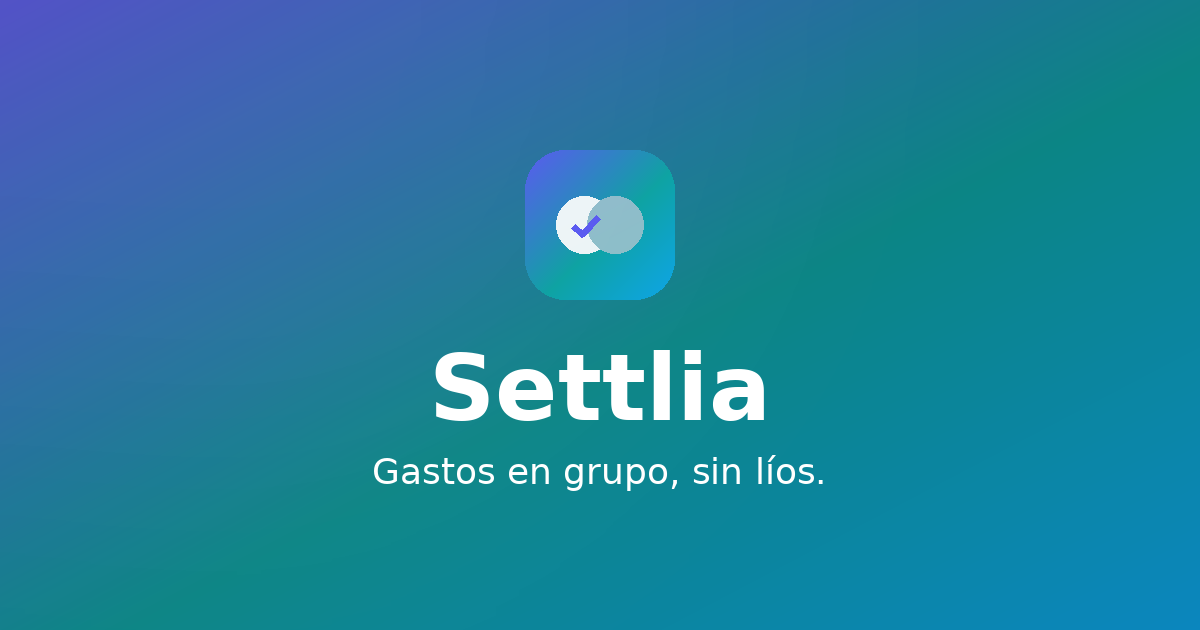
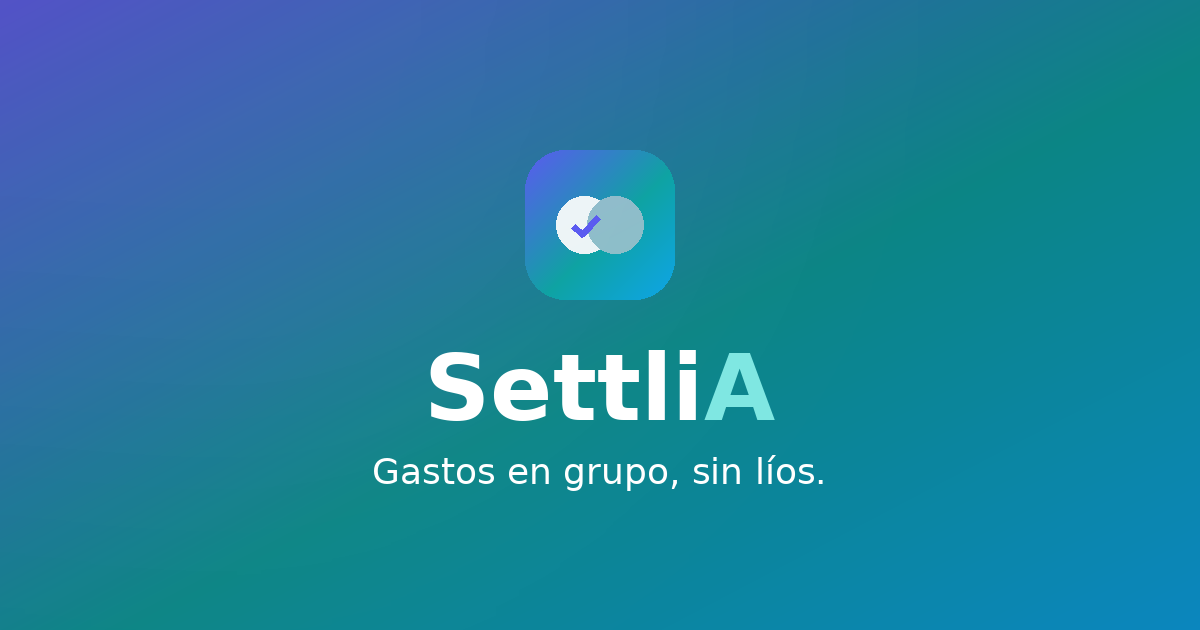
Marca como SettliA (A final destacada por la IA)
- Wordmark nav/hero/mockup: 'Settli' + 'A' acentuada (teal)
- 'SettliA' en título, meta OG/Twitter, footer y copy
- og.png regenerado con la A en teal

Claude-Session: https://claude.ai/code/session_01YHhLKro4hYv5YNZfBVj38x

Changed region(s): [[0.3392, 0.5429, 0.6475, 0.6937]]

diff --git a/terms.html b/terms.html
@@ -3,8 +3,8 @@
   <head>
     <meta charset="UTF-8" />
     <meta name="viewport" content="width=device-width, initial-scale=1" />
-    <title>Settlia — Terms of Service</title>
-    <meta name="description" content="The terms for using Settlia." />
+    <title>SettliA — Terms of Service</title>
+    <meta name="description" content="The terms for using SettliA." />
     <meta name="robots" content="all" />
     <link rel="icon" type="image/svg+xml" href="assets/favicon.svg" />
     <link rel="stylesheet" href="styles.css" />
@@ -16,7 +16,7 @@
           <span class="logo">
             <svg width="30" height="30" viewBox="0 0 48 48" fill="none"><rect x="3" y="3" width="42" height="42" rx="13" fill="url(#g)"/><circle cx="19" cy="24" r="9" fill="#fff" fill-opacity=".92"/><circle cx="29" cy="24" r="9" fill="#fff" fill-opacity=".5"/><path d="M15.6 24.4l2.7 2.7 5.1-5.6" stroke="#5B5BF0" stroke-width="2.4" stroke-linecap="round" stroke-linejoin="round"/><defs><linearGradient id="g" x1="0" y1="0" x2="1" y2="1"><stop stop-color="#5B5BF0"/><stop offset=".55" stop-color="#0FA3A3"/><stop offset="1" stop-color="#0EA5E9"/></linearGradient></defs></svg>
           </span>
-          <span class="brand-name">Settlia</span>
+          <span class="brand-name">Settli<span style="color:#0FA3A3">A</span></span>
         </a>
         <span class="lang-toggle"><button data-lang="en">EN</button><button data-lang="es">ES</button></span>
       </div>
@@ -30,28 +30,28 @@
         <h1>Terms of Service</h1>
         <div class="updated">Last updated: 22 June 2026</div>
 
-        <p>These terms govern your use of Settlia. By using the app you accept them. If you don't agree, don't use Settlia.</p>
+        <p>These terms govern your use of SettliA. By using the app you accept them. If you don't agree, don't use SettliA.</p>
 
-        <h2>What Settlia is</h2>
-        <p>Settlia helps groups record shared expenses and work out who owes whom. Balances and suggested settlements are <b>estimates for your convenience</b>; you are responsible for the actual amounts and for settling them. Settlia does <b>not</b> process or hold money — it only displays the payment details members choose to share.</p>
+        <h2>What SettliA is</h2>
+        <p>SettliA helps groups record shared expenses and work out who owes whom. Balances and suggested settlements are <b>estimates for your convenience</b>; you are responsible for the actual amounts and for settling them. SettliA does <b>not</b> process or hold money — it only displays the payment details members choose to share.</p>
 
         <h2>Your account</h2>
-        <p>Provide accurate information, keep your login secure, and you are responsible for activity in your account. You must be at least 16 to use Settlia.</p>
+        <p>Provide accurate information, keep your login secure, and you are responsible for activity in your account. You must be at least 16 to use SettliA.</p>
 
         <h2>Acceptable use</h2>
-        <p>Don't use Settlia for anything unlawful, don't abuse or disrupt the service, and don't upload content you don't have the right to share. Only add other people's details with their consent.</p>
+        <p>Don't use SettliA for anything unlawful, don't abuse or disrupt the service, and don't upload content you don't have the right to share. Only add other people's details with their consent.</p>
 
         <h2>AI features</h2>
         <p>Voice, text and receipt features use automated processing and may be inaccurate. Always review what the AI produces before saving.</p>
 
         <h2>Plans and payments</h2>
-        <p>Settlia is currently free / in beta. If we introduce paid plans (Pro), the price, billing cycle and cancellation terms will be shown before you pay.</p>
+        <p>SettliA is currently free / in beta. If we introduce paid plans (Pro), the price, billing cycle and cancellation terms will be shown before you pay.</p>
 
         <h2>Disclaimer and liability</h2>
-        <p>Settlia is provided "as is", without warranties. To the maximum extent permitted by law, we are not liable for indirect or consequential damages, or for amounts arising from the calculations or payments between members.</p>
+        <p>SettliA is provided "as is", without warranties. To the maximum extent permitted by law, we are not liable for indirect or consequential damages, or for amounts arising from the calculations or payments between members.</p>
 
         <h2>Termination</h2>
-        <p>You can stop using Settlia and delete your account at any time. We may suspend accounts that breach these terms.</p>
+        <p>You can stop using SettliA and delete your account at any time. We may suspend accounts that breach these terms.</p>
 
         <h2>Changes</h2>
         <p>We may update these terms; we will revise the date above. Continued use means you accept the changes.</p>
@@ -65,28 +65,28 @@
         <h1>Términos del Servicio</h1>
         <div class="updated">Última actualización: 22 de junio de 2026</div>
 
-        <p>Estos términos rigen tu uso de Settlia. Al usar la app los aceptas. Si no estás de acuerdo, no uses Settlia.</p>
+        <p>Estos términos rigen tu uso de SettliA. Al usar la app los aceptas. Si no estás de acuerdo, no uses SettliA.</p>
 
-        <h2>Qué es Settlia</h2>
-        <p>Settlia ayuda a los grupos a registrar gastos compartidos y calcular quién debe a quién. Los saldos y las liquidaciones sugeridas son <b>estimaciones orientativas</b>; tú eres responsable de los importes reales y de saldarlos. Settlia <b>no</b> procesa ni custodia dinero: solo muestra los datos de pago que los miembros deciden compartir.</p>
+        <h2>Qué es SettliA</h2>
+        <p>SettliA ayuda a los grupos a registrar gastos compartidos y calcular quién debe a quién. Los saldos y las liquidaciones sugeridas son <b>estimaciones orientativas</b>; tú eres responsable de los importes reales y de saldarlos. SettliA <b>no</b> procesa ni custodia dinero: solo muestra los datos de pago que los miembros deciden compartir.</p>
 
         <h2>Tu cuenta</h2>
-        <p>Proporciona información veraz, mantén tu acceso seguro y eres responsable de la actividad de tu cuenta. Debes tener al menos 16 años para usar Settlia.</p>
+        <p>Proporciona información veraz, mantén tu acceso seguro y eres responsable de la actividad de tu cuenta. Debes tener al menos 16 años para usar SettliA.</p>
 
         <h2>Uso aceptable</h2>
-        <p>No uses Settlia para nada ilegal, no abuses ni interrumpas el servicio y no subas contenido que no tengas derecho a compartir. Añade datos de otras personas solo con su consentimiento.</p>
+        <p>No uses SettliA para nada ilegal, no abuses ni interrumpas el servicio y no subas contenido que no tengas derecho a compartir. Añade datos de otras personas solo con su consentimiento.</p>
 
         <h2>Funciones de IA</h2>
         <p>Las funciones de voz, texto y tickets usan procesamiento automático y pueden contener errores. Revisa siempre lo que genera la IA antes de guardar.</p>
 
         <h2>Planes y pagos</h2>
-        <p>Settlia es por ahora gratuita / en beta. Si introducimos planes de pago (Pro), se mostrarán el precio, el ciclo de facturación y las condiciones de cancelación antes de pagar.</p>
+        <p>SettliA es por ahora gratuita / en beta. Si introducimos planes de pago (Pro), se mostrarán el precio, el ciclo de facturación y las condiciones de cancelación antes de pagar.</p>
 
         <h2>Exención y responsabilidad</h2>
-        <p>Settlia se ofrece "tal cual", sin garantías. En la máxima medida permitida por la ley, no somos responsables de daños indirectos o derivados, ni de importes resultantes de los cálculos o pagos entre miembros.</p>
+        <p>SettliA se ofrece "tal cual", sin garantías. En la máxima medida permitida por la ley, no somos responsables de daños indirectos o derivados, ni de importes resultantes de los cálculos o pagos entre miembros.</p>
 
         <h2>Terminación</h2>
-        <p>Puedes dejar de usar Settlia y eliminar tu cuenta cuando quieras. Podemos suspender cuentas que incumplan estos términos.</p>
+        <p>Puedes dejar de usar SettliA y eliminar tu cuenta cuando quieras. Podemos suspender cuentas que incumplan estos términos.</p>
 
         <h2>Cambios</h2>
         <p>Podemos actualizar estos términos; revisaremos la fecha de arriba. El uso continuado implica que aceptas los cambios.</p>

diff --git a/index.html b/index.html
@@ -3,8 +3,8 @@
   <head>
     <meta charset="UTF-8" />
     <meta name="viewport" content="width=device-width, initial-scale=1" />
-    <title>Settlia — group expenses, drama-free</title>
-    <meta name="description" content="Settlia splits the group bill for you. Scan the receipt or just say it out loud and AI assigns each item to each person." />
+    <title>SettliA — group expenses, drama-free</title>
+    <meta name="description" content="SettliA splits the group bill for you. Scan the receipt or just say it out loud and AI assigns each item to each person." />
     <link rel="canonical" href="https://patricbarca.github.io/settly-landing/" />
     <meta name="theme-color" content="#241c53" />
 
@@ -13,20 +13,20 @@
 
     <!-- Open Graph -->
     <meta property="og:type" content="website" />
-    <meta property="og:site_name" content="Settlia" />
-    <meta property="og:title" content="Settlia — group expenses, drama-free" />
+    <meta property="og:site_name" content="SettliA" />
+    <meta property="og:title" content="SettliA — group expenses, drama-free" />
     <meta property="og:description" content="Scan the receipt or just say it out loud — AI splits the group bill and assigns each item to each person." />
     <meta property="og:url" content="https://patricbarca.github.io/settly-landing/" />
     <meta property="og:image" content="https://patricbarca.github.io/settly-landing/assets/og.png" />
     <meta property="og:image:width" content="1200" />
     <meta property="og:image:height" content="630" />
-    <meta property="og:image:alt" content="Settlia — group expenses, drama-free" />
+    <meta property="og:image:alt" content="SettliA — group expenses, drama-free" />
     <meta property="og:locale" content="en_US" />
     <meta property="og:locale:alternate" content="es_ES" />
 
     <!-- Twitter -->
     <meta name="twitter:card" content="summary_large_image" />
-    <meta name="twitter:title" content="Settlia — group expenses, drama-free" />
+    <meta name="twitter:title" content="SettliA — group expenses, drama-free" />
     <meta name="twitter:description" content="Scan the receipt or just say it out loud — AI splits the group bill and assigns each item to each person." />
     <meta name="twitter:image" content="https://patricbarca.github.io/settly-landing/assets/og.png" />
 
@@ -38,16 +38,16 @@
       <div class="nav-inner">
         <a class="brand" href="#">
           <span class="logo">
-            <img src="assets/icon.svg" width="30" height="30" alt="Settlia" style="display:block;border-radius:8px" />
+            <img src="assets/icon.svg" width="30" height="30" alt="SettliA" style="display:block;border-radius:8px" />
           </span>
-          <span class="brand-name">Settlia</span>
+          <span class="brand-name">Settli<span style="color:#0FA3A3">A</span></span>
         </a>
         <nav class="nav-links">
           <a href="#features" data-es="Funciones">Features</a>
           <a href="#demo" data-es="Cómo funciona">How it works</a>
           <a href="#pricing" data-es="Precios">Pricing</a>
           <span class="lang-toggle"><button data-lang="en">EN</button><button data-lang="es">ES</button></span>
-          <a class="btn-dark" href="https://patricbarca.github.io/settly/" data-es="Probar Settlia">Try Settlia</a>
+          <a class="btn-dark" href="https://patricbarca.github.io/settly/" data-es="Probar SettliA">Try SettliA</a>
         </nav>
       </div>
     </header>
@@ -59,9 +59,9 @@
           <h1 data-es-html="Gastos en grupo,<br>sin líos.">Group expenses,<br />drama-free.</h1>
           <span class="tag-ai" data-es="Impulsado por IA">Powered by AI</span>
         </div>
-        <p class="lead" data-es="Se acabó apuntar gastos a mano y calcular quién le debe a quién. Escanea el recibo o dilo en voz alta: Settlia ordena cada gasto, lo reparte entre tus amigos y deja las cuentas claras en segundos.">
+        <p class="lead" data-es="Se acabó apuntar gastos a mano y calcular quién le debe a quién. Escanea el recibo o dilo en voz alta: SettliA ordena cada gasto, lo reparte entre tus amigos y deja las cuentas claras en segundos.">
           No more tracking expenses by hand or working out who owes who. Scan the receipt or just
-          say it out loud — Settlia organizes every expense, splits it among your friends and
+          say it out loud — SettliA organizes every expense, splits it among your friends and
           settles up in seconds.
         </p>
         <div class="hero-actions">
@@ -99,8 +99,8 @@
             <!-- A · Home: your groups -->
             <div class="slide on">
               <div class="home-head">
-                <img src="assets/icon.svg" width="24" height="24" alt="Settlia" style="display:block;border-radius:6px" />
-                Settlia
+                <img src="assets/icon.svg" width="24" height="24" alt="SettliA" style="display:block;border-radius:6px" />
+                Settli<span style="color:#0FA3A3">A</span>
               </div>
               <div class="sub-lbl" data-es="Tus grupos">Your groups</div>
               <div class="mini-group">
@@ -124,7 +124,7 @@
             <div class="slide">
               <div class="app-hero">
                 <div class="ah-top">
-                  <span class="ah-brand">Settlia</span>
+                  <span class="ah-brand">Settli<span style="color:#7fe7e2">A</span></span>
                   <span class="ah-bell">
                     <svg width="17" height="17" viewBox="0 0 24 24" fill="none" stroke="rgba(255,255,255,.85)" stroke-width="1.8" stroke-linecap="round" stroke-linejoin="round"><path d="M6 9a6 6 0 0 1 12 0c0 6 2.5 8 2.5 8h-17S6 15 6 9"/><path d="M10.2 21a2 2 0 0 0 3.6 0"/></svg>
                     <i class="bell-dot"></i>
@@ -331,7 +331,7 @@
             <svg width="22" height="22" viewBox="0 0 24 24" fill="none" stroke="#E8920C" stroke-width="1.8" stroke-linecap="round" stroke-linejoin="round"><rect x="9" y="3" width="6" height="11" rx="3"/><path d="M5 11a7 7 0 0 0 14 0"/><path d="M12 18v3"/></svg>
           </span>
           <h3 data-es="Gasto por voz o texto">Expense by voice or text</h3>
-          <p data-es="“Cena con Alexa y Patrick, pagué 90.” Settlia lo interpreta y reparte entre los participantes correctos.">“Dinner with Alexa and Patrick, I paid 90.” Settlia interprets it and splits between the right people.</p>
+          <p data-es="“Cena con Alexa y Patrick, pagué 90.” SettliA lo interpreta y reparte entre los participantes correctos.">“Dinner with Alexa and Patrick, I paid 90.” SettliA interprets it and splits between the right people.</p>
         </article>
         <article class="feat">
           <span class="feat-ic">
@@ -410,12 +410,12 @@
     </section>
 
     <footer class="foot">
-      <span data-es="Settlia · gastos en grupo, sin líos.">Settlia · group expenses, drama-free.</span>
+      <span data-es="SettliA · gastos en grupo, sin líos.">SettliA · group expenses, drama-free.</span>
       <span class="foot-legal">
         <a href="./privacy.html" data-es="Privacidad">Privacy</a>
         <a href="./terms.html" data-es="Términos">Terms</a>
       </span>
-      <span class="muted">© 2026 Settlia</span>
+      <span class="muted">© 2026 SettliA</span>
     </footer>
 
     <script>

diff --git a/privacy.html b/privacy.html
@@ -3,8 +3,8 @@
   <head>
     <meta charset="UTF-8" />
     <meta name="viewport" content="width=device-width, initial-scale=1" />
-    <title>Settlia — Privacy Policy</title>
-    <meta name="description" content="How Settlia collects, uses and protects your data." />
+    <title>SettliA — Privacy Policy</title>
+    <meta name="description" content="How SettliA collects, uses and protects your data." />
     <meta name="robots" content="all" />
     <link rel="icon" type="image/svg+xml" href="assets/favicon.svg" />
     <link rel="stylesheet" href="styles.css" />
@@ -16,7 +16,7 @@
           <span class="logo">
             <svg width="30" height="30" viewBox="0 0 48 48" fill="none"><rect x="3" y="3" width="42" height="42" rx="13" fill="url(#g)"/><circle cx="19" cy="24" r="9" fill="#fff" fill-opacity=".92"/><circle cx="29" cy="24" r="9" fill="#fff" fill-opacity=".5"/><path d="M15.6 24.4l2.7 2.7 5.1-5.6" stroke="#5B5BF0" stroke-width="2.4" stroke-linecap="round" stroke-linejoin="round"/><defs><linearGradient id="g" x1="0" y1="0" x2="1" y2="1"><stop stop-color="#5B5BF0"/><stop offset=".55" stop-color="#0FA3A3"/><stop offset="1" stop-color="#0EA5E9"/></linearGradient></defs></svg>
           </span>
-          <span class="brand-name">Settlia</span>
+          <span class="brand-name">Settli<span style="color:#0FA3A3">A</span></span>
         </a>
         <span class="lang-toggle"><button data-lang="en">EN</button><button data-lang="es">ES</button></span>
       </div>
@@ -30,7 +30,7 @@
         <h1>Privacy Policy</h1>
         <div class="updated">Last updated: 22 June 2026</div>
 
-        <p>Settlia ("we", "us") is a group expense-splitting app. This policy explains what data we collect, how we use it, and your rights. By using Settlia you agree to this policy.</p>
+        <p>SettliA ("we", "us") is a group expense-splitting app. This policy explains what data we collect, how we use it, and your rights. By using SettliA you agree to this policy.</p>
 
         <h2>Data we collect</h2>
         <ul>
@@ -53,7 +53,7 @@
         <p>These providers process data on our behalf to deliver the service.</p>
 
         <h2>Payments</h2>
-        <p>Settlia does not process payments. Payment-method details you add are shown to other members of your group so they can pay you using their own banking/payment apps. Only add details you are comfortable sharing with your group.</p>
+        <p>SettliA does not process payments. Payment-method details you add are shown to other members of your group so they can pay you using their own banking/payment apps. Only add details you are comfortable sharing with your group.</p>
 
         <h2>Storage and retention</h2>
         <p>Your data is stored with Supabase and cached locally on your device for offline use. We keep it until you delete it or delete your account.</p>
@@ -65,7 +65,7 @@
         <p>Data is encrypted in transit and protected by row-level security so members only see groups they belong to.</p>
 
         <h2>Children</h2>
-        <p>Settlia is not intended for children under 16. Do not use it if you are under that age.</p>
+        <p>SettliA is not intended for children under 16. Do not use it if you are under that age.</p>
 
         <h2>Changes</h2>
         <p>We may update this policy; we will revise the date above. Continued use means you accept the changes.</p>
@@ -79,7 +79,7 @@
         <h1>Política de Privacidad</h1>
         <div class="updated">Última actualización: 22 de junio de 2026</div>
 
-        <p>Settlia ("nosotros") es una app para dividir gastos en grupo. Esta política explica qué datos recogemos, cómo los usamos y tus derechos. Al usar Settlia aceptas esta política.</p>
+        <p>SettliA ("nosotros") es una app para dividir gastos en grupo. Esta política explica qué datos recogemos, cómo los usamos y tus derechos. Al usar SettliA aceptas esta política.</p>
 
         <h2>Datos que recogemos</h2>
         <ul>
@@ -102,7 +102,7 @@
         <p>Estos proveedores procesan datos en nuestro nombre para prestar el servicio.</p>
 
         <h2>Pagos</h2>
-        <p>Settlia no procesa pagos. Los datos de pago que añades se muestran a los demás miembros del grupo para que te paguen desde sus apps bancarias. Añade solo datos que quieras compartir con tu grupo.</p>
+        <p>SettliA no procesa pagos. Los datos de pago que añades se muestran a los demás miembros del grupo para que te paguen desde sus apps bancarias. Añade solo datos que quieras compartir con tu grupo.</p>
 
         <h2>Almacenamiento y conservación</h2>
         <p>Tus datos se guardan en Supabase y se cachean localmente en tu dispositivo para uso sin conexión. Los conservamos hasta que los borres o elimines tu cuenta.</p>
@@ -114,7 +114,7 @@
         <p>Los datos se cifran en tránsito y se protegen con seguridad a nivel de fila, de modo que cada miembro solo ve los grupos a los que pertenece.</p>
 
         <h2>Menores</h2>
-        <p>Settlia no está dirigida a menores de 16 años. No la uses si eres menor de esa edad.</p>
+        <p>SettliA no está dirigida a menores de 16 años. No la uses si eres menor de esa edad.</p>
 
         <h2>Cambios</h2>
         <p>Podemos actualizar esta política; revisaremos la fecha de arriba. El uso continuado implica que aceptas los cambios.</p>